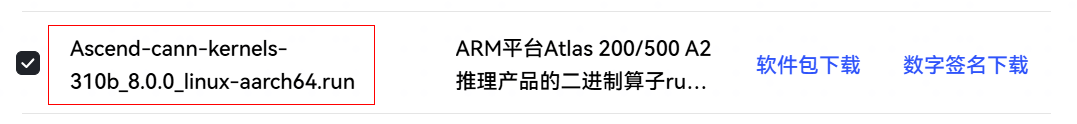
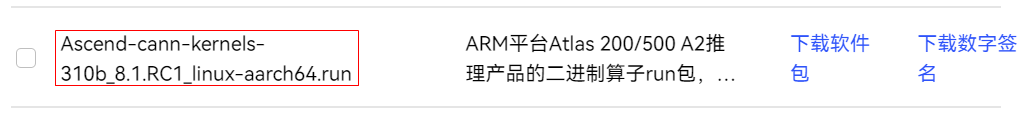
merge all commits in one

diff --git a/tutorials/source_en/orange_pi/environment_setup.md b/tutorials/source_en/orange_pi/environment_setup.md
@@ -142,19 +142,15 @@ Step 1 Use `CTRL+ALT+T` or click on the icon with `$_` at the bottom of the page
 
 ![environment-setup-1-14](../../source_zh_cn/orange_pi/images/environment_setup_1-14.png)
 
-Step 2 Enter the software package installation information file directory.
+Step 2 Execute the following command to obtain version information.
 
 ```bash
-(base) HwHiAiUser@orangepiaipro:~$ cd /usr/local/Ascend/ascend-toolkit/latest/aarch64-linux
+(base) HwHiAiUser@orangepiaipro:~$ cat /usr/local/Ascend/ascend-toolkit/latest/aarch64-linux/ascend_toolkit_install.info
 ```
 
-Step 3 Execute the following command to obtain version information.
+![environment-setup-1-25](../../source_zh_cn/orange_pi/images/environment_setup_1-25.png)
 
-```bash
-(base) HwHiAiUser@orangepiaipro:~$ cat ascend_toolkit_install.info
-```
-
-### 3.2 CANN Upgrading
+### 3.2 CANN Upgrading (taking 8.1.RC1 version as an example)
 
 If the current CANN version does not meet the development requirements, the CANN version can be upgraded according to the following steps.
 
@@ -185,7 +181,7 @@ Step 2 Remove installed CANN packages to free up disk space and prevent installi
 
 ```
 
-Step 3 Open the official website of Ascend CANN to access the community version of the resource [download address](https://www.hiascend.com/developer/download/community/result?module=cann), download the required version of the toolkit package. Taking 8.0.0.beta1 version as an example, as shown below:
+Step 3 Open the official website of Ascend CANN to access the community version of the resource [download address](https://www.hiascend.com/developer/download/community/result?module=cann), download the required version of the toolkit package. Taking 8.1.RC1 version as an example, as shown below:
 
 ![environment-setup-1-15](../../source_zh_cn/orange_pi/images/environment_setup_1-15.png)
 
@@ -206,13 +202,13 @@ Step 4 Go to the Toolkit package download directory.
 Step 5 Add execution permissions to the CANN package.
 
 ```bash
-(base) root@orangepiaipro: /home/HwHiAiUser/Downloads# chmod +x ./Ascend-cann-toolkit_8.0.0_linux-aarch64.run
+(base) root@orangepiaipro: /home/HwHiAiUser/Downloads# chmod +x ./Ascend-cann-toolkit_8.1.RC1_linux-aarch64.run
 ```
 
 Step 6 Execute the following command to upgrade the software.
 
 ```bash
-(base) root@orangepiaipro: /home/HwHiAiUser/Downloads#./Ascend-cann-toolkit_8.0.0_linux-aarch64.run --install
+(base) root@orangepiaipro: /home/HwHiAiUser/Downloads#./Ascend-cann-toolkit_8.1.RC1_linux-aarch64.run --install
 ```
 
 Type Y when this prompt pops up during installation, then press Enter to continue the installation. This process takes about 10-15 minutes, please be patient.
@@ -279,13 +275,13 @@ Step 4 Go to the Kernels package download directory.
 Step 5 Add execution permissions to the kernels package.
 
 ```bash
-(base) root@orangepiaipro: /home/HwHiAiUser/Downloads# chmod +x ./Ascend-cann-kernels-310b_8.0.0_linux-aarch64.run
+(base) root@orangepiaipro: /home/HwHiAiUser/Downloads# chmod +x ./Ascend-cann-kernels-310b_8.1.RC1_linux-aarch64.run
 ```
 
 Step 6 Execute the following command to upgrade the software.
 
 ```bash
-(base) root@orangepiaipro: /home/HwHiAiUser/Downloads#./Ascend-cann-kernels-310b_8.0.0_linux-aarch64.run --install
+(base) root@orangepiaipro: /home/HwHiAiUser/Downloads#./Ascend-cann-kernels-310b_8.1.RC1_linux-aarch64.run --install
 ```
 
 After the upgrade is completed, if the following message is displayed, the software upgrade is successful:
@@ -314,9 +310,11 @@ Step 2 Execute the following command to obtain version information.
 (base) HwHiAiUser@orangepiaipro:~$ pip show mindspore
 ```
 
+![environment-setup-1-24](../../source_zh_cn/orange_pi/images/environment_setup_1-24.png)
+
 If the current MindSpore version does not meet the development requirements, the MindSpore version can be upgraded according to the following methods.
 
-### 4.2 Installing the Official Version of the Website (Taking MindSpore 2.5.0 as an example)
+### 4.2 Installing the Official Version of the Website (Taking MindSpore 2.6.0 as an example)
 
 #### 4.2.1 MindSpore Upgrading
 
@@ -325,13 +323,13 @@ Please note that both installation methods for MindSpore need to be performed un
 Method 1: Use the CTRL+ALT+T shortcut key or click on the icon with $_ at the bottom of the page to open the terminal, keep the HwHiAiUser user logged in, and run the pip install command directly on the terminal.
 
 ```bash
-(base) HwHiAiUser@orangepiaipro:~$ pip install mindspore==2.5.0
+(base) HwHiAiUser@orangepiaipro:~$ pip install mindspore==2.6.0
 ```
 
 Method 2: Use the CTRL+ALT+T shortcut key or click on the icon with $_ at the bottom of the page to open the terminal, refer to [MindSpore official website installation tutorial](https://www.mindspore.cn/install/en) to install.
 
 ```bash
-(base) HwHiAiUser@orangepiaipro:~$ pip install https://ms-release.obs.cn-north-4.myhuaweicloud.com/2.5.0/MindSpore/unified/aarch64/mindspore-2.5.0-cp39-cp39-linux_aarch64.whl --trusted-host ms-release.obs.cn-north-4.myhuaweicloud.com -i https://pypi.tuna.tsinghua.edu.cn/simple
+(base) HwHiAiUser@orangepiaipro:~$ pip install https://ms-release.obs.cn-north-4.myhuaweicloud.com/2.6.0/MindSpore/unified/aarch64/mindspore-2.6.0-cp39-cp39-linux_aarch64.whl --trusted-host ms-release.obs.cn-north-4.myhuaweicloud.com -i https://pypi.tuna.tsinghua.edu.cn/simple
 
 # Confirm the operating system and programming language, and the default environment of the OrangePi AIpro development board is linux-aarch64 and python3.9
 ```
@@ -345,7 +343,7 @@ Method 2: Use the CTRL+ALT+T shortcut key or click on the icon with $_ at the bo
 If the output is as follows, it indicates that MindSpore has been successfully installed.
 
 ```bash
-MindSpore version: 2.5.0
+MindSpore version: 2.6.0
 The result of multiplication calculation is correct, MindSpore has been installed on platform [Ascend] successfully!
 ```
 

diff --git a/tutorials/source_zh_cn/orange_pi/environment_setup.md b/tutorials/source_zh_cn/orange_pi/environment_setup.md
@@ -142,19 +142,15 @@
 
 ![environment-setup-1-14](./images/environment_setup_1-14.png)
 
-步骤2 进入软件包安装信息文件目录。
+步骤2 执行以下命令获取版本信息。
 
 ```bash
-(base) HwHiAiUser@orangepiaipro:~$ cd /usr/local/Ascend/ascend-toolkit/latest/aarch64-linux
+(base) HwHiAiUser@orangepiaipro:~$ cat /usr/local/Ascend/ascend-toolkit/latest/aarch64-linux/ascend_toolkit_install.info
 ```
 
-步骤3 执行以下命令获取版本信息。
+![environment-setup-1-25](./images/environment_setup_1-25.png)
 
-```bash
-(base) HwHiAiUser@orangepiaipro:~$ cat ascend_toolkit_install.info
-```
-
-### 3.2 CANN升级
+### 3.2 CANN升级（以CANN8.1.RC1为例）
 
 若当前CANN版本不满足开发需求，可按照如下内容对CANN版本进行升级。
 
@@ -185,7 +181,7 @@
 
 ```
 
-步骤3 打开昇腾CANN官网访问社区版资源[下载地址](https://www.hiascend.com/developer/download/community/result?module=cann)，下载所需版本的toolkit包，该处以8.0.0.beta1版本为例，如下图：
+步骤3 打开昇腾CANN官网访问社区版资源[下载地址](https://www.hiascend.com/developer/download/community/result?module=cann)，下载所需版本的toolkit包，该处以8.1.RC1版本为例，如下图：
 
 ![environment-setup-1-15](./images/environment_setup_1-15.png)
 
@@ -206,13 +202,13 @@
 步骤5 给CANN包添加执行权限。
 
 ```bash
-(base) root@orangepiaipro: /home/HwHiAiUser/Downloads# chmod +x ./Ascend-cann-toolkit_8.0.0_linux-aarch64.run
+(base) root@orangepiaipro: /home/HwHiAiUser/Downloads# chmod +x ./Ascend-cann-toolkit_8.1.RC1_linux-aarch64.run
 ```
 
 步骤6 执行以下命令升级软件。
 
 ```bash
-(base) root@orangepiaipro: /home/HwHiAiUser/Downloads#./Ascend-cann-toolkit_8.0.0_linux-aarch64.run --install
+(base) root@orangepiaipro: /home/HwHiAiUser/Downloads#./Ascend-cann-toolkit_8.1.RC1_linux-aarch64.run --install
 ```
 
 安装时弹出此提示后输入Y，然后按回车键继续安装，该过程约需要10-15分钟，请耐心等待。
@@ -279,13 +275,13 @@ npu-smi info
 步骤5 给kernels包添加执行权限。
 
 ```bash
-(base) root@orangepiaipro: /home/HwHiAiUser/Downloads# chmod +x ./Ascend-cann-kernels-310b_8.0.0_linux-aarch64.run
+(base) root@orangepiaipro: /home/HwHiAiUser/Downloads# chmod +x ./Ascend-cann-kernels-310b_8.1.RC1_linux-aarch64.run
 ```
 
 步骤6 执行以下命令升级软件。
 
 ```bash
-(base) root@orangepiaipro: /home/HwHiAiUser/Downloads#./Ascend-cann-kernels-310b_8.0.0_linux-aarch64.run --install
+(base) root@orangepiaipro: /home/HwHiAiUser/Downloads#./Ascend-cann-kernels-310b_8.1.RC1_linux-aarch64.run --install
 ```
 
 升级完成后，若显示如下信息，则说明软件升级成功：
@@ -314,9 +310,11 @@ xxx install success
 (base) HwHiAiUser@orangepiaipro:~$ pip show mindspore
 ```
 
+![environment-setup-1-24](./images/environment_setup_1-24.png)
+
 若当前MindSpore版本不满足开发需求，可按照如下内容对MindSpore版本进行升级。
 
-### 4.2 升级MindSpore（以MindSpore2.5.0为例）
+### 4.2 升级MindSpore（以MindSpore2.6.0为例）
 
 #### 4.2.1 升级MindSpore
 
@@ -325,13 +323,13 @@ xxx install success
 方式一：使用CTRL+ALT+T快捷键或点击页面下方带有$_的图标打开终端，保持HwHiAiUser用户登录状态，在终端直接运行pip install命令。
 
 ```bash
-(base) HwHiAiUser@orangepiaipro:~$ pip install mindspore==2.5.0
+(base) HwHiAiUser@orangepiaipro:~$ pip install mindspore==2.6.0
 ```
 
 方式二：使用CTRL+ALT+T快捷键或点击页面下方带有$_的图标打开终端，保持HwHiAiUser用户登录状态，参考[昇思MindSpore官网安装教程](https://www.mindspore.cn/install)，在终端执行以下命令进行安装。
 
 ```bash
-(base) HwHiAiUser@orangepiaipro:~$ pip install https://ms-release.obs.cn-north-4.myhuaweicloud.com/2.5.0/MindSpore/unified/aarch64/mindspore-2.5.0-cp39-cp39-linux_aarch64.whl --trusted-host ms-release.obs.cn-north-4.myhuaweicloud.com -i https://pypi.tuna.tsinghua.edu.cn/simple
+(base) HwHiAiUser@orangepiaipro:~$ pip install https://ms-release.obs.cn-north-4.myhuaweicloud.com/2.6.0/MindSpore/unified/aarch64/mindspore-2.6.0-cp39-cp39-linux_aarch64.whl --trusted-host ms-release.obs.cn-north-4.myhuaweicloud.com -i https://pypi.tuna.tsinghua.edu.cn/simple
 
 # 注意确认操作系统和编程语言，香橙派开发板默认环境下是linux-aarch64和python3.9
 ```
@@ -347,7 +345,7 @@ xxx install success
 如果输出如下，说明MindSpore安装成功了。
 
 ```bash
-MindSpore version: 2.5.0
+MindSpore version: 2.6.0
 The result of multiplication calculation is correct, MindSpore has been installed on platform [Ascend] successfully!
 ```
 
